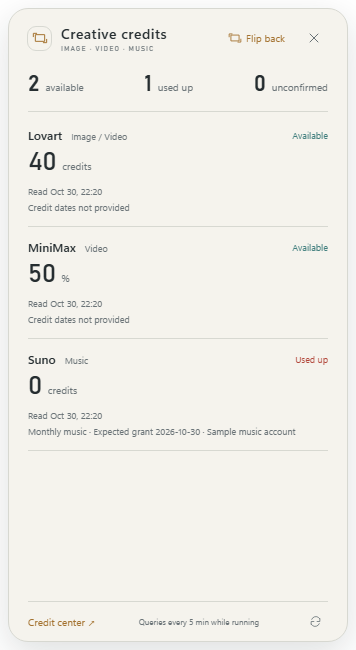
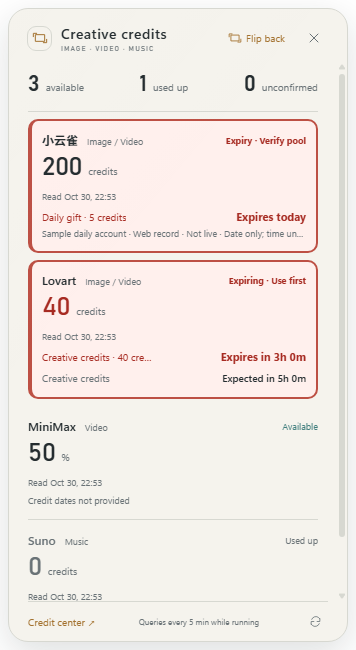
Prioritize expiring creative credits and show precise countdowns

diff --git a/src/ui/creative-panel.js b/src/ui/creative-panel.js
@@ -1,25 +1,37 @@
-(function(root,factory){const api=factory();if(typeof module==='object'&&module.exports)module.exports=api;else root.creativePanel=api;})(typeof window!=='undefined'?window:this,function(){
+(function(root,factory){const api=factory(typeof module==='object'&&module.exports?require('./creative-timing.js'):root.creativeTiming);if(typeof module==='object'&&module.exports)module.exports=api;else root.creativePanel=api;})(typeof window!=='undefined'?window:this,function(clock){
   'use strict';
-  function markup({state,t,esc,button,icon}){
+  function markup({state,t,esc,button,icon,now=Date.now()}){
     const data=state.creative||{rows:[],available:0,empty:0,unknown:0,enabled:true},language=state.settings.language;
     const format=value=>new Intl.NumberFormat(language,{maximumFractionDigits:3}).format(value);
     const when=value=>new Date(value).toLocaleString(language,{month:'short',day:'numeric',hour:'2-digit',minute:'2-digit',hour12:false});
     const kind=value=>({image:t('生图','Image'),video:t('生视频','Video'),music:t('生音乐','Music')}[value]);
-    function dateLine(row){
-      const d=row.dates?.find(d=>d.kind==='expiry'&&!d.elapsed)||row.dates?.find(d=>d.kind==='reset'&&!d.elapsed)||row.dates?.[0];
-      if(!d)return t('积分日期未提供','Credit dates not provided');
-      const label=d.estimated?t('预计发放','Expected grant'):d.kind==='expiry'?t('到期','Expires'):t('重置','Resets');
-      const basis=d.source==='user'?t(' · 本人填写',' · User entered'):d.source==='web'?t(' · 网页记录',' · Web record'):d.policy?t(' · 依规则预计',' · Policy forecast'):'';
-      const pool=language==='en'?d.labelEn:d.label;
-      return `${pool?pool+' · ':''}${label} ${d.dateOnly?d.onDate:when(d.at)}${basis}${d.account&&d.account!==row.account?' · '+d.account:''}${d.elapsed?t(' · 待核实',' · Verify'):''}`;
+    function countdown(d,time){
+      const expiry=d.kind==='expiry';
+      if(time.elapsed)return expiry?t('到期日已过，待核实','Expiry passed; verify'):t('预计恢复日已过，待核实','Expected renewal passed; verify');
+      if(time.dateOnly)return time.days===0?expiry?t('今天到期','Expires today'):t('今天预计恢复','Expected today'):expiry?t(`${time.days} 天后到期`,`Expires in ${time.days}d`):t(`${time.days} 天后预计恢复`,`Expected in ${time.days}d`);
+      const minutes=Math.max(1,Math.ceil(time.remaining/60000)),days=Math.floor(minutes/1440),hours=Math.floor(minutes/60)%24,m=minutes%60;
+      const duration=days?t(`${days}天${hours}小时`,`${days}d ${hours}h`):hours?t(`${hours}小时${m}分`,`${hours}h ${m}m`):t(`${m}分钟`,`${m}m`);
+      return expiry?t(`${duration}后到期`,`Expires in ${duration}`):t(`${duration}后预计恢复`,`Expected in ${duration}`);
+    }
+    function dateLines(row){
+      const selected=clock.selectDates(row.dates,now),dates=[row.priorityExpiry||selected.expiry,selected.reset].filter(Boolean);
+      if(!dates.length)return `<div class="creative-date-missing">${t('积分日期未提供','Credit dates not provided')}</div>`;
+      return dates.map(d=>{
+        const time=clock.timing(d,now),poolName=language==='en'?d.labelEn:d.label,pool=poolName+(d.kind==='expiry'&&d.amount>0?' · '+format(d.amount)+(d.unit==='percent'?'%':d.unit==='credits'?t('积分',' credits'):d.unit||''):'');
+        const basis=d.source==='web'?t('网页记录 · 非实时','Web record · Not live'):d.source==='user'?t('本人填写','User entered'):d.estimated?t('按月预计 · 未确认到账','Monthly forecast · Grant unconfirmed'):d.policy?t('依规则预计 · 待核实','Policy forecast · Verify'):d.stale?t('上次读数 · 待刷新','Last reading · Refresh needed'):'';
+        const account=d.account&&d.account!==row.account?d.account+' · ':'';
+        const precision=time.dateOnly?(d.timeText?t('时区未说明，按日期倒计时','Timezone unspecified; day countdown'):t('仅日期，时刻未提供','Date only; time unspecified')):'';
+        const note=[account+basis,precision].filter(Boolean).join(' · '),exact=d.dateOnly?d.onDate+(d.timeText?' '+d.timeText:''):when(d.at),title=[pool,exact,note].filter(Boolean).join(' · ');
+        return `<div class="creative-deadline ${d.kind} ${time.elapsed?'is-elapsed':''}" title="${esc(title)}"><div class="creative-deadline-top"><span class="creative-pool">${esc(pool||t('积分','Credits'))}</span><strong class="creative-countdown">${esc(countdown(d,time))}</strong></div>${note?`<div class="creative-date-note">${esc(note)}</div>`:''}</div>`;
+      }).join('');
     }
     const rows=data.rows.map(row=>{
-      const status=({available:t('有积分','Available'),empty:t('已用尽','Used up'),unknown:t('待确认','Unconfirmed')})[row.status];
+      const status=row.expiring?(row.status==='unknown'?t('临期记录 · 待确认','Expiry · Unconfirmed'):row.expiryNeedsCheck?t('临期 · 核实分项','Expiry · Verify pool'):t('临期 · 优先使用','Expiring · Use first')):({available:t('有积分','Available'),empty:t('已用尽','Used up'),unknown:t('待确认','Unconfirmed')})[row.status];
       const unit=row.unit==='percent'?'%':row.unit==='credits'?t('积分','credits'):row.unit==='requests'?t('次','requests'):row.unit;
       const reading=row.fetchedAt?(row.status==='unknown'?t('上次读取 ','Last read '):t('刷新于 ','Read '))+when(row.fetchedAt):row.querying?t('正在查询…','Querying…'):t('尚未读到余额','No balance reading');
       const provenance=row.source==='manual'?t(' · 本人记录',' · Manual'):row.source==='host'?t(' · 查询快照',' · Snapshot'):'';
       const account=row.accountCount>1?t(` · 显示 ${row.account||'未命名账号'}，共${row.accountCount}个账号`,` · Showing ${row.account||'unnamed account'} of ${row.accountCount} accounts`):'';
-      return `<article class="creative-row is-${row.status}" data-provider="${esc(row.id)}"><div class="creative-row-top"><div><strong>${esc(row.name)}</strong><span class="creative-kind">${esc(row.kinds.map(kind).join(' / '))}</span></div><span class="creative-status">${status}</span></div><div class="creative-amount">${row.amount==null?'—':format(row.amount)}<small>${row.amount==null?'':esc(unit)}</small></div><div class="creative-read-time">${esc(reading+provenance+account)}</div><div class="creative-date" title="${esc(dateLine(row))}">${esc(dateLine(row))}</div></article>`;
+      return `<article class="creative-row is-${row.status} ${row.expiring?'is-expiring':''} ${row.criticalExpiry?'is-critical':''} ${row.expiryIsPrimary?'expiry-is-primary':''}" data-provider="${esc(row.id)}"><div class="creative-row-top"><div><strong>${esc(row.name)}</strong><span class="creative-kind">${esc(row.kinds.map(kind).join(' / '))}</span></div><span class="creative-status">${status}</span></div><div class="creative-amount">${row.amount==null?'—':format(row.amount)}<small>${row.amount==null?'':esc(unit)}</small></div><div class="creative-read-time">${esc(reading+provenance+account)}</div>${dateLines(row)}</article>`;
     }).join('');
     return `<section class="panel creative-panel"><header class="header"><div class="brand-mark">${icon('flip')}</div><div class="brand">${t('创作积分','Creative credits')}<small>IMAGE · VIDEO · MUSIC</small></div><span class="spacer"></span><button class="flip-switch" data-action="show-codex">${icon('flip')}${t('翻回','Flip back')}</button>${button('close',t('关闭面板','Close panel'),'close')}</header><div class="content creative-content"><div class="creative-summary"><span><strong>${data.available}</strong>${t('有积分','available')}</span><span><strong>${data.empty}</strong>${t('已用尽','used up')}</span><span><strong>${data.unknown}</strong>${t('待确认','unconfirmed')}</span></div>${state.demo?`<p class="notice demo-label">${t('示例数据','Sample data')}</p>`:''}<div class="creative-list">${rows||`<div class="empty"><h1>${t('还没有创作额度读数','No creative quota readings yet')}</h1><p>${t('使用本机已有的生图、生视频或音乐连接；可到额度中心梳理和补充记录。','Use existing image, video or music connections. Discover tools or add readings in the credit center.')}</p></div>`}</div></div><footer class="footer"><button class="text-button" data-action="credit-center">${t('额度中心','Credit center')} ↗</button><span>${data.enabled?t('运行时每5分钟查询','Queries every 5 min while running'):t('自动查询已暂停','Automatic queries paused')}</span><button class="icon-button" data-action="creative-refresh" ${data.busy?'disabled':''} aria-label="${t('刷新创作积分','Refresh creative credits')}">${icon('refresh')}</button></footer></section>`;
   }

diff --git a/src/ui/credits.js b/src/ui/credits.js
@@ -44,13 +44,13 @@
     return `<section class="web-observations"><h3>${t('日期记录与预计发放','Recorded dates & expected grants')}</h3><p>${t('无需在刻度登录平台。余额沿用本机已有连接刷新；网页日期保留上次核对，每月发放按你设置的同日规则预计。预计不代表已经到账。','No provider sign-in inside Gauge. Balances refresh through existing local connections. Website dates retain the last observation; monthly grants follow your same-day forecast rule. A forecast is not a confirmed grant.')}</p>${tool.dateObservations.map(o=>`<div class="web-account"><strong>${esc(o.account)}</strong><small>${t('核对于','Checked')} ${esc(date(o.observedAt))} · ${t('非实时','Not live')}</small>${o.items.map(i=>`<div class="web-fact"><span>${esc(language==='en'?i.labelEn:i.label)}${i.amount!=null?` · ${number(i.amount)} ${esc(unit(i))}`:''}</span><strong>${i.kind==='never'?t('永久有效','Does not expire'):i.kind==='unknown'?t('日期未展示','Date not shown'):esc(i.onDate)}${i.ruleDerived?` · ${t('依官方规则','Official rule')}`:''}${i.timeText?` ${esc(i.timeText)} · ${t('时区未说明','Timezone unspecified')}`:!['never','unknown'].includes(i.kind)?` · ${t('仅有日期','Date only')}`:''}</strong>${['lovart','xyq','jimeng'].includes(tool.id)&&['monthly','subscription'].includes(i.id)&&i.kind!=='never'?`<button class="mini-link" data-action="monthly-rule" data-observation="${esc(o.id)}" data-item="${esc(i.id)}">${i.monthlyRule?t('预计每月 '+i.monthlyRule.day+' 日 · 修改','Expected on day '+i.monthlyRule.day+' · Edit'):t('设置月度发放日','Set monthly grant day')}</button>`:''}</div>`).join('')}<button class="mini-link" data-action="web-date-source" data-note="${esc(o.id)}">${t('打开网页核实','Open website to verify')}</button></div>`).join('')}</section>`;
   }
   function deadlineLine(d,row){
-    if(['web','user','user_schedule'].includes(d.source))return `<div class="deadline ${d.kind} ${d.near?'near':''} web-deadline"><span class="deadline-kind">${d.estimated?t('预计','Expected'):d.source==='user'?t('本人记录','User record'):t('网页记录','Web reading')} · ${esc(language==='en'?d.labelEn:d.label)}${d.kind==='expiry'?t('到期',' expires'):d.estimated?'':t('恢复',' renews')}</span><strong>${esc(d.onDate)}${d.timeText?` ${esc(d.timeText)}`:''}${d.elapsed?` · ${t('日期已到，待核实','Date reached; verify')}`:''}</strong><small>${esc(d.account)} · ${d.amount!=null?`${number(d.amount)} ${esc(d.unit==='credits'?t('积分','credits'):d.unit)} · `:''}${d.estimated?t('按每月同日规则预计，未确认到账','Monthly same-day forecast; grant unconfirmed'):d.ruleDerived?t('上次记录 + 规则','Last reading + rule'):t('核对记录，非实时','Observed; not live')}${d.timeText?t(' · 时区未说明',' · Timezone unspecified'):t(' · 仅有日期',' · Date only')}</small></div>`;
+    if(['web','user_schedule'].includes(d.source)||d.source==='user'&&d.dateOnly)return `<div class="deadline ${d.kind} ${d.near?'near':''} web-deadline"><span class="deadline-kind">${d.estimated?t('预计','Expected'):d.source==='user'?t('本人记录','User record'):t('网页记录','Web reading')} · ${esc(language==='en'?d.labelEn:d.label)}${d.kind==='expiry'?t('到期',' expires'):d.estimated?'':t('恢复',' renews')}</span><strong>${esc(d.onDate)}${d.timeText?` ${esc(d.timeText)}`:''}${d.elapsed?` · ${t('日期已到，待核实','Date reached; verify')}`:''}</strong><small>${esc(d.account)} · ${d.amount!=null?`${number(d.amount)} ${esc(d.unit==='credits'?t('积分','credits'):d.unit)} · `:''}${d.estimated?t('按每月同日规则预计，未确认到账','Monthly same-day forecast; grant unconfirmed'):d.ruleDerived?t('上次记录 + 规则','Last reading + rule'):t('核对记录，非实时','Observed; not live')}${d.timeText?t(' · 时区未说明',' · Timezone unspecified'):t(' · 仅有日期',' · Date only')}</small></div>`;
     const hours=Math.ceil((d.at-Date.now())/3600000),days=Math.ceil(hours/24);
     const remaining=d.dateOnly?d.onDate:hours<=24?t(`${hours} 小时内`, `Within ${hours}h`):t(`${days} 天后`, `In ${days} days`);
     const pool=language==='en'?d.labelEn:d.label,label=d.kind==='expiry'?d.card?t('重置卡到期','Reset credit expires'):t(`${pool||'积分'}到期`,`${pool||'Credits'} expire`):t('重置','Resets');
     const otherAccount=row.accountCount>1?`${d.account||t('未命名账号','Unnamed account')}${d.recordId!==row.record?.id?t('（另一个账号）',' (other account)'):''} · `:'';
     const context=otherAccount+(d.kind==='reset'&&!d.dateOnly?pool||'':'');
-    const exact=d.dateOnly?t('仅有日期','Date only'):date(d.at),note=[context,d.dateOnly?t('仅有日期','Date only'):'',d.stale?t('上次记录','Last reading'):'',d.policy&&!d.dateOnly?t('预计','Expected'):''].filter(Boolean).join(' · ');
+    const exact=d.dateOnly?t('仅有日期','Date only'):date(d.at),note=[context,d.dateOnly?t('仅有日期','Date only'):'',d.stale?t('上次记录','Last reading'):'',d.source==='user'?t('本人填写','User entered'):'',d.policy&&!d.dateOnly?t('预计','Expected'):''].filter(Boolean).join(' · ');
     return `<div class="deadline ${d.kind} ${d.near?'near':''}" title="${esc(otherAccount+(pool||'')+' · '+exact)}"><span class="deadline-kind">${esc(label)}</span><strong>${esc(remaining)}</strong>${note?`<small>${esc(note)}</small>`:''}</div>`;
   }
   function overviewRow(row){

diff --git a/src/ui/creative-panel.css b/src/ui/creative-panel.css
@@ -1,2 +1,6 @@
 #app{width:100%;height:100%}
 .flip-stage{position:relative;width:100%;height:100%;perspective:1200px}.flip-deck{position:relative;width:100%;height:100%;transform-style:preserve-3d;transition:transform .42s cubic-bezier(.2,.75,.25,1)}.flip-deck.is-flipped{transform:rotateY(180deg)}.flip-face{position:absolute;inset:0;backface-visibility:hidden;-webkit-backface-visibility:hidden}.creative-face{transform:rotateY(180deg)}.flip-switch{display:inline-flex;align-items:center;gap:4px;color:var(--accent);font-size:10px;white-space:nowrap;padding:7px 5px;border-radius:7px}.flip-switch:hover{background:var(--surface)}.flip-switch .icon{width:14px;height:14px}.creative-panel .brand{font-size:14px;letter-spacing:.5px}.creative-panel .brand small{font-size:7px;letter-spacing:1.1px}.creative-panel .brand-mark{width:25px;height:25px}.creative-content{padding-bottom:10px}.creative-summary{display:flex;justify-content:space-between;gap:10px;margin:10px 0 3px;padding-bottom:13px;border-bottom:1px solid var(--line);font-size:10px;color:var(--muted)}.creative-summary span{display:flex;align-items:baseline;gap:6px}.creative-summary strong{font-family:var(--number);font-size:22px;font-weight:500;color:var(--ink)}.creative-row{padding:12px 0 11px;border-bottom:1px solid var(--line)}.creative-row-top{display:flex;align-items:center;justify-content:space-between;gap:9px}.creative-row-top>div{display:flex;align-items:baseline;gap:9px;min-width:0}.creative-row-top strong{font-size:12px;font-weight:600;overflow-wrap:anywhere}.creative-kind{font-size:9px;color:var(--muted);white-space:nowrap}.creative-status{font-size:9px;white-space:nowrap;color:var(--muted)}.creative-row.is-available .creative-status{color:var(--cool)}.creative-row.is-empty .creative-status{color:var(--danger)}.creative-amount{font-family:var(--number);font-size:26px;line-height:33px;letter-spacing:-.5px;margin-top:3px}.creative-amount small{font-family:var(--font);font-size:10px;color:var(--muted);margin-left:6px;letter-spacing:0}.creative-row.is-unknown .creative-amount{color:var(--muted)}.creative-read-time,.creative-date{font-size:9px;line-height:16px;color:var(--muted);overflow-wrap:anywhere}.creative-date{white-space:nowrap;overflow:hidden;text-overflow:ellipsis}.creative-panel .footer{gap:6px;font-size:8px}.creative-panel .empty{min-height:220px}.creative-panel .footer .text-button{font-size:10px}@media(prefers-reduced-motion:reduce){.flip-deck{transition:none}}
+
+.creative-deadline{margin-top:4px;min-width:0}.creative-deadline-top{display:flex;align-items:baseline;justify-content:space-between;gap:8px;min-width:0;font-size:10px;line-height:17px}.creative-pool{min-width:0;overflow:hidden;text-overflow:ellipsis;white-space:nowrap;color:var(--muted);max-width:42%}.creative-countdown{font-weight:550;white-space:nowrap}.creative-date-note,.creative-date-missing{font-size:9px;color:var(--muted);line-height:15px;overflow:hidden;text-overflow:ellipsis;white-space:nowrap}.creative-date-missing{margin-top:3px}.creative-row.is-expiring{border:1px solid var(--expiry-border);border-left-width:3px;border-radius:10px;background:var(--expiry-bg);padding:10px;margin:7px 0}.creative-row.is-expiring .creative-status,.creative-row.is-expiring .expiry .creative-countdown{color:var(--expiry-ink);font-weight:650}.creative-row.is-expiring.is-critical{border-width:2px;border-left-width:4px}.creative-row.is-expiring .expiry .creative-countdown{font-size:11px}.creative-row.is-empty .creative-row-top strong,.creative-row.is-empty .creative-kind,.creative-row.is-empty .creative-status,.creative-row.is-empty .creative-amount,.creative-row.is-empty .creative-amount small,.creative-row.is-empty .creative-countdown{color:var(--muted)}.creative-deadline.is-elapsed .creative-countdown{color:var(--muted)}
+
+.creative-row.is-expiring .expiry .creative-pool,.creative-row.is-expiring.expiry-is-primary .creative-amount{color:var(--expiry-ink)}

diff --git a/src/ui/credit-overview.js b/src/ui/credit-overview.js
@@ -30,13 +30,13 @@
   function deadlines(records,rules,now){
     const out=[];
     for(const r of records)for(const original of r.pools||[]){
-      const p=effective(r,original,rules);
-      if(finite(p.amount)&&p.amount>0&&p.expiresAt>now)out.push({kind:'expiry',at:p.expiresAt,label:p.label,labelEn:p.labelEn,recordId:r.id,poolId:p.id,account:r.account,card:card(p),stale:!fresh(r,now),near:p.expiresAt-now<=7*DAY,dateOnly:false});
+      const p=effective(r,original,rules),rule=rules?.[r.id+'/'+p.id]||r.rules?.[r.id+'/'+p.id];
+      if(finite(p.amount)&&p.amount>0&&p.expiresAt>now)out.push({kind:'expiry',at:p.expiresAt,label:p.label,labelEn:p.labelEn,amount:p.amount,unit:p.unit,recordId:r.id,poolId:p.id,account:r.account,card:card(p),stale:!fresh(r,now),near:p.expiresAt-now<=7*DAY,dateOnly:false,source:rule?.expiresAt?'user':'upstream'});
       if(card(p)||p.entitlement==='not_in_plan'||toolsPool(p))continue;
-      if(p.resetsAt>now)out.push({kind:'reset',at:p.resetsAt,label:p.resetLabel||p.label,labelEn:p.resetLabelEn||p.labelEn,recordId:r.id,poolId:p.id,account:r.account,stale:!fresh(r,now),near:p.resetsAt-now<=2*DAY,dateOnly:false,policy:p.resetSource==='policy'});
+      if(p.resetsAt>now)out.push({kind:'reset',at:p.resetsAt,label:p.resetLabel||p.label,labelEn:p.resetLabelEn||p.labelEn,recordId:r.id,poolId:p.id,account:r.account,stale:!fresh(r,now),near:p.resetsAt-now<=2*DAY,dateOnly:false,policy:!rule?.resetsAt&&p.resetSource==='policy',source:rule?.resetsAt?'user':p.resetSource==='policy'?'policy':'upstream'});
       else if(!p.resetsAt&&/^\d{4}-\d{2}-\d{2}$/.test(p.resetDate||'')){
         const today=new Date(now),local=Date.UTC(today.getFullYear(),today.getMonth(),today.getDate()),anchor=Date.parse(p.resetDate+'T12:00:00Z');
-        if(anchor>=local)out.push({kind:'reset',at:anchor,onDate:p.resetDate,dateOnly:true,label:p.label,labelEn:p.labelEn,recordId:r.id,poolId:p.id,account:r.account,stale:!fresh(r,now),near:anchor-local<=2.5*DAY,policy:true});
+        if(anchor>=local)out.push({kind:'reset',at:anchor,onDate:p.resetDate,dateOnly:true,label:p.label,labelEn:p.labelEn,recordId:r.id,poolId:p.id,account:r.account,stale:!fresh(r,now),near:anchor-local<=2.5*DAY,policy:p.resetSource==='policy',source:p.resetSource==='policy'?'policy':'upstream'});
       }
     }
     return out.sort((a,b)=>a.at-b.at);

diff --git a/src/ui/creative-timing.js b/src/ui/creative-timing.js
@@ -1,0 +1,32 @@
+(function(root,factory){const api=factory();if(typeof module==='object'&&module.exports)module.exports=api;else root.creativeTiming=api;})(typeof window!=='undefined'?window:this,function(){
+  'use strict';
+  const DAY=86400000;
+  function timing(date,now=Date.now()){
+    if(date?.dateOnly){
+      if(!/^\d{4}-\d{2}-\d{2}$/.test(date.onDate||''))return null;
+      const[y,m,d]=date.onDate.split('-').map(Number),day=Date.UTC(y,m-1,d),clock=new Date(now);
+      if(new Date(day).toISOString().slice(0,10)!==date.onDate)return null;
+      const days=Math.round((day-Date.UTC(clock.getFullYear(),clock.getMonth(),clock.getDate()))/DAY);
+      return{dateOnly:true,days,elapsed:days<0,due:days===0,near:days>=0&&days<=7,critical:days===0,order:new Date(y,m-1,d).getTime()};
+    }
+    if(!Number.isFinite(date?.at)||date.at<=0||!Number.isFinite(new Date(date.at).getTime()))return null;
+    const remaining=date.at-now;
+    return{dateOnly:false,remaining,elapsed:remaining<=0,due:remaining<=0,near:remaining>0&&remaining<=7*DAY,critical:remaining>0&&remaining<=DAY,order:date.at};
+  }
+  function selectDates(dates=[],now=Date.now()){
+    const select=kind=>{
+      const entries=dates.filter(d=>d.kind===kind&&(kind!=='expiry'||d.amount==null||d.amount>0)).map(date=>({date,time:timing(date,now)})).filter(x=>x.time);
+      // Retain a recent missed forecast as a verification prompt, never a grant.
+      const overdue=kind==='reset'?entries.filter(x=>(x.date.estimated||x.date.policy)&&x.time.elapsed&&(x.time.dateOnly?x.time.days>=-7:x.time.remaining>=-7*DAY)):[];
+      if(overdue.length)return overdue.sort((a,b)=>b.time.order-a.time.order)[0].date;
+      const upcoming=entries.filter(x=>!x.time.elapsed).sort((a,b)=>a.time.order-b.time.order);
+      return(upcoming[0]||entries.sort((a,b)=>b.time.order-a.time.order)[0])?.date||null;
+    };
+    return{expiry:select('expiry'),reset:select('reset')};
+  }
+  function priorityExpiry(dates=[],status,now=Date.now()){
+    if(status==='empty')return null;
+    return dates.filter(d=>d.kind==='expiry'&&(d.amount==null||d.amount>0)&&timing(d,now)?.near).sort((a,b)=>timing(a,now).order-timing(b,now).order)[0]||null;
+  }
+  return{timing,selectDates,priorityExpiry};
+});

diff --git a/src/ui/index.html b/src/ui/index.html
@@ -8,5 +8,5 @@
   <link rel="stylesheet" href="style.css">
   <link rel="stylesheet" href="creative-panel.css">
 </head>
-<body><main id="app"></main><script src="reset-model.js"></script><script src="creative-panel.js"></script><script src="app.js"></script></body>
+<body><main id="app"></main><script src="reset-model.js"></script><script src="creative-timing.js"></script><script src="creative-panel.js"></script><script src="app.js"></script></body>
 </html>

diff --git a/docs/GETTING_STARTED.md b/docs/GETTING_STARTED.md
@@ -2,11 +2,11 @@
 
 [简体中文](GETTING_STARTED.zh-CN.md) · [Home](../README.md) · [Download](https://github.com/Akenaiai/codex-gauge/releases/latest)
 
-For Windows 0.3.6. Gauge keeps the original Codex badge and adds an AI credit center. **No Gauge account or additional provider sign-in inside Gauge is required.** Queries use connections on your own computer. If a tool is not signed in, sign in through its original client or CLI, or skip it for now.
+For Windows 0.3.7. Gauge keeps the original Codex badge and adds an AI credit center. **No Gauge account or additional provider sign-in inside Gauge is required.** Queries use connections on your own computer. If a tool is not signed in, sign in through its original client or CLI, or skip it for now.
 
 ## 1. Install and open
 
-1. On the release page, expand **Assets** and download `Codex.Gauge.Setup.0.3.6.exe`. For an installation-free launch, download `Codex.Gauge-0.3.6-win.zip`, extract the entire archive and run `Codex Gauge.exe`. Later releases may have different version numbers. GitHub's **Source code** ZIP requires a development environment.
+1. On the release page, expand **Assets** and download `Codex.Gauge.Setup.0.3.7.exe`. For an installation-free launch, download `Codex.Gauge-0.3.7-win.zip`, extract the entire archive and run `Codex Gauge.exe`. Later releases may have different version numbers. GitHub's **Source code** ZIP requires a development environment.
 2. Windows 10/11 x64 is required. The distribution includes its desktop runtime; Node.js is not needed. Optional Agent Relay queries require that separate tool and Python.
 3. The app is currently unsigned. In PowerShell, run `Get-FileHash -Algorithm SHA256 -LiteralPath 'full path to the download'` and compare it with `SHA256SUMS.txt` from the same release. Matching hashes verify file consistency, not a code signature. Do not disable Windows protections.
 4. Launch Gauge. Open **Credit center · All AI tools** from its notification-area icon, which may be under hidden icons. The Codex gauge panel also has a credit-center button.
@@ -31,6 +31,8 @@ Open **Details → Dates & source** for all pools and timestamps, or **Calendar*
 ### Preview only creative credits
 
 Hover over the small Codex badge to expand it, then click **Creative credits**. The card rotates to image, video and music balances with each source's read time and available dates. **Flip back** restores the original coding gauge. The selected face survives reopening; reduced-motion settings disable rotation. Used up and unread/stale stay distinct. Coding windows, search quotas, reset cards and download credits are excluded. The back's refresh queries creative sources; the credit center remains available for full details and date entry.
+
+Expiries within seven days move first in red; within 24 hours, or due today with date-only precision, the border is stronger. Used-up tools are gray at the end. Expiry and expected-renewal countdowns appear together. A date-only record uses days/today, with no invented clock time; hover for the full date and source. Reached forecasts require verification. A bonus expiry names its own amount; it does not mean the total balance expires. Stale/unmatched dates stay unconfirmed.
 
 ## 3. Which local connections are read
 

diff --git a/docs/GETTING_STARTED.zh-CN.md b/docs/GETTING_STARTED.zh-CN.md
@@ -2,11 +2,11 @@
 
 [English](GETTING_STARTED.md) · [返回首页](../README.zh-CN.md) · [下载安装包](https://github.com/Akenaiai/codex-gauge/releases/latest)
 
-适用于 Windows 0.3.6。刻度保留原 Codex 小仪表，并提供统一的 AI 额度中心。**不需要注册刻度账号，也不需要在刻度里额外登录各个平台。** 查询沿用你自己电脑上的已有连接。尚未登录的工具，需要在它原来的客户端或 CLI 中完成登录；也可以先跳过。
+适用于 Windows 0.3.7。刻度保留原 Codex 小仪表，并提供统一的 AI 额度中心。**不需要注册刻度账号，也不需要在刻度里额外登录各个平台。** 查询沿用你自己电脑上的已有连接。尚未登录的工具，需要在它原来的客户端或 CLI 中完成登录；也可以先跳过。
 
 ## 1. 安装并打开
 
-1. 打开上方发布页，在 **Assets** 下载 `Codex.Gauge.Setup.0.3.6.exe`。需要免安装运行时选 `Codex.Gauge-0.3.6-win.zip`，完整解压后运行其中的 `Codex Gauge.exe`。后续版本以发布页文件名为准。GitHub 的 **Source code** ZIP 是源码，需要开发环境才能运行。
+1. 打开上方发布页，在 **Assets** 下载 `Codex.Gauge.Setup.0.3.7.exe`。需要免安装运行时选 `Codex.Gauge-0.3.7-win.zip`，完整解压后运行其中的 `Codex Gauge.exe`。后续版本以发布页文件名为准。GitHub 的 **Source code** ZIP 是源码，需要开发环境才能运行。
 2. 系统要求是 Windows 10/11 x64。安装包已包含桌面运行环境，无需另装 Node.js；可选的 Agent Relay 查询需要另外安装该工具及 Python。
 3. 当前安装包没有 Windows 代码签名。可将下载文件右键复制路径，在 PowerShell 运行 `Get-FileHash -Algorithm SHA256 -LiteralPath '下载文件的完整路径'`，与同一发布页的 `SHA256SUMS.txt` 比较。这只能验证文件是否一致，不等于代码签名；不要关闭系统保护。
 4. 运行刻度。从任务栏通知区域的刻度图标打开 **额度中心 · 全部 AI 工具**；图标可能收在隐藏图标菜单中。已有 Codex 小面板也有进入额度中心的按钮。
@@ -31,6 +31,8 @@
 ### 只预览创作积分
 
 悬停展开小仪表，点 **创作积分** 即可翻到生图、生视频、生音乐余量，每个平台保留自己的读取时间和已知日期。点 **翻回** 返回原编程仪表。翻面选择会保留，减少动态效果时不播放旋转。已用尽与未读取 / 过旧明确区分，编程周期、资料查询、重置卡、下载额度不会混入。背面的刷新只查创作来源，完整分项和日期填写继续在额度中心。
+
+7天内到期标红置顶，24小时内或只有日期且今天到期时加强边框；用尽置灰排后。到期与预计恢复可同时倒计时，只有日期就按天 / 今天显示，不编造时刻；悬停可看完整日期与来源。预计时间到了仍需核实到账。部分赠金到期会注明分项数量，不代表总额都要到期；旧读数或未匹配账号的日期继续待确认。
 
 ## 3. 会读取哪些本机连接
 

diff --git a/README.md b/README.md
@@ -8,7 +8,7 @@ A desktop AI credit center with a small, precision-styled Codex usage gauge abov
 
 **No Gauge account or additional provider login inside Gauge.** It uses the current user's own local CLI/MCP connections or optional API credentials. A new installation includes no developer account, balances or date rules. Discovering a plugin is not proof that its balance can be queried. See the [distribution privacy verification](docs/PRIVACY_VERIFICATION.md).
 
-**Current version: 0.3.6.** Flip the expanded gauge to **Creative credits** for image, video and music balances, read times and pool-specific dates. Coding quotas stay on the original face. Suno reuses your existing MCP connection and separates generation from downloads. [Release notes](docs/releases/0.3.6.md) · [Technical credit-center guide](docs/CREDIT_CENTER.md).
+**Current version: 0.3.7.** The creative flip face puts expiring credits first in red, shows expiry and expected-renewal countdowns together, and moves gray used-up tools to the end. Pool, account and date precision remain explicit. Original Codex face and Suno queries are preserved. [Release notes](docs/releases/0.3.7.md) · [Technical guide](docs/CREDIT_CENTER.md).
 
 ![Quota overview with synthetic sample data](assets/credit-overview-en.png)
 
@@ -33,7 +33,7 @@ A desktop AI credit center with a small, precision-styled Codex usage gauge abov
 
 Download the setup executable or portable ZIP from [Releases](https://github.com/Akenaiai/codex-gauge/releases). The app is **not code-signed**. Verify the release source and SHA-256 checksum; do not disable Windows protections.
 
-Choose `Codex.Gauge.Setup.0.3.6.exe` for installation, or fully extract `Codex.Gauge-0.3.6-win.zip` and run `Codex Gauge.exe`. These distributions include the desktop runtime; Node.js is not required. GitHub's **Source code** archive requires the development setup below. The [first-use tutorial](docs/GETTING_STARTED.md) covers checksum comparison, the tray entry, connections and missing-data troubleshooting.
+Choose `Codex.Gauge.Setup.0.3.7.exe` for installation, or fully extract `Codex.Gauge-0.3.7-win.zip` and run `Codex Gauge.exe`. These distributions include the desktop runtime; Node.js is not required. GitHub's **Source code** archive requires the development setup below. The [first-use tutorial](docs/GETTING_STARTED.md) covers checksum comparison, the tray entry, connections and missing-data troubleshooting.
 
 You need Windows 10/11 x64. The original Codex badge additionally needs the Codex desktop app and an installed, signed-in [official Codex CLI](https://github.com/openai/codex). The CLI supplies authentication and current Codex quota data. Keep Codex open for the attached gauge. Other supported providers can use the credit center independently through their own connections; if the profile cannot be located, the tray still opens the panel.
 

diff --git a/docs/CREDIT_CENTER.md b/docs/CREDIT_CENTER.md
@@ -2,6 +2,14 @@
 
 For installation and first use, start with the [English tutorial](GETTING_STARTED.md). This page describes adapters, private imports and integration details. 首次安装和使用请先看[中文教程](GETTING_STARTED.zh-CN.md)，本页为适配、私人导入及集成说明。
 
+## 0.3.7: Expiry priority / 临期优先
+
+The creative preview uses a seven-day expiry threshold, independent of renewal proximity. Eligible positive/unknown expiry pools sort first by deadline; confirmed empty tools remain gray at the end. Stale or independent observations retain verification wording, not a current-availability claim. Primary amount highlighting requires both record ID and pool ID to match; a bonus expiry shows that pool and amount separately.
+
+The shared timing model preserves precision: exact epoch timestamps use minute-level countdowns, while `dateOnly` uses local calendar-day differences and never the internal ordering anchor as a provider instant. Expiry and renewal are selected independently, so both can be displayed even when many earlier expiry entries exist. Recent overdue forecasts remain bounded verification prompts. Absolute dates/source/account remain available in tooltips. Manual overrides annotate each date kind separately; a user expiry cannot relabel the upstream renewal or discard the exact time in the full center. Countdown repainting uses the existing UI clock and does not introduce upstream polling.
+
+中文：背面按7天内到期置顶并标红，恢复临近不当作到期，用尽置灰排后。到期和预计恢复分别选择、同时倒计时；准确时间按分钟，只有日期按日历天，不使用内部排序锚点编造时刻。过日预计仍需核实。主金额标红须同时匹配所示记录和积分池，部分赠金不代表全额到期；手填到期 / 恢复各自标注来源，原精确日期不丢失。倒计时不新增上游查询。
+
 ## 0.3.6: Creative flip face and Suno / 创作翻面与 Suno
 
 The expanded badge panel flips between the original Codex view and **Creative credits**. The latter filters to known image/video/music providers and explicit media-only entitlements. Coding windows, search quotas, cash balances, reset cards and downloads are excluded. Each row preserves its own reading timestamp and uncertainty; neither separate accounts nor generation/download pools are summed. Dates must belong to retained media pools; independent dates on a mixed coding/video provider require an explicit video label. Sub-pool dates name that pool. The 52-pixel badge behavior is preserved. `panelFace` is a validated local preference, and the hidden face is inert for keyboard/accessibility navigation. Reduced motion disables rotation.

diff --git a/README.zh-CN.md b/README.zh-CN.md
@@ -8,7 +8,7 @@
 
 **不用注册刻度账号，不用在刻度里额外登录平台。** 查询沿用当前用户自己电脑上的 CLI / MCP 连接或可选 API 凭据。新安装不带开发者账号、余额和日期规则；发现插件不代表能查余额。详见[分发隐私核对记录](docs/PRIVACY_VERIFICATION.md)。
 
-**当前版本 0.3.6：** 原小仪表展开后可翻到 **创作积分** 背面，快速查看生图、生视频、生音乐余量、读取时间和分项日期。编程额度保留在原面。Suno沿用已有MCP自动查询，生成积分与下载额度分开。[版本说明](docs/releases/0.3.6.md) · [额度中心进阶说明](docs/CREDIT_CENTER.md)。
+**当前版本 0.3.7：** 创作背面把临期积分标红置顶，同时显示到期与预计恢复倒计时，已用尽置灰排后。分项、账号和日期精度继续保留，原Codex仪表与Suno查询保持。[版本说明](docs/releases/0.3.7.md) · [进阶说明](docs/CREDIT_CENTER.md)。
 
 ![额度总览，图中均为合成示例数据](assets/credit-overview-zh.png)
 
@@ -35,7 +35,7 @@
 
 从[发布页](https://github.com/Akenaiai/codex-gauge/releases)下载安装程序或绿色 ZIP。当前程序**没有 Windows 代码签名**，请核对来源和 SHA-256，不关闭系统保护。
 
-安装版选 `Codex.Gauge.Setup.0.3.6.exe`；免安装版选 `Codex.Gauge-0.3.6-win.zip`，完整解压后运行 `Codex Gauge.exe`。两者已包含桌面运行环境，不需要另装 Node.js。GitHub 的 **Source code** 压缩包是源码，需要下方的开发环境。[首次使用教程](docs/GETTING_STARTED.zh-CN.md)包含校验方法、托盘入口、连接说明和缺失数据排查。
+安装版选 `Codex.Gauge.Setup.0.3.7.exe`；免安装版选 `Codex.Gauge-0.3.7-win.zip`，完整解压后运行 `Codex Gauge.exe`。两者已包含桌面运行环境，不需要另装 Node.js。GitHub 的 **Source code** 压缩包是源码，需要下方的开发环境。[首次使用教程](docs/GETTING_STARTED.zh-CN.md)包含校验方法、托盘入口、连接说明和缺失数据排查。
 
 需要 Windows 10/11 x64。原 Codex 小仪表还需要 Codex 桌面客户端，以及已经安装并登录的[官方 Codex CLI](https://github.com/openai/codex)，由 CLI 提供本机登录和 Codex 额度数据。打开 Codex 后，仪表会定位到个人头像上方；其他已支持平台可通过自己的连接独立使用额度中心，暂时无法定位头像时仍可从托盘打开。
 

diff --git a/docs/releases/0.3.7.md b/docs/releases/0.3.7.md
@@ -1,0 +1,19 @@
+# 0.3.7: Expiry priority and creative countdowns
+
+The creative face now places upcoming expiries within seven days first, ordered by deadline and highlighted in red. Known exact expiries within 24 hours, and date-only expiries due today, receive a stronger border. Confirmed used-up tools are gray and move to the end. An approaching renewal alone never receives expiry styling.
+
+Expiry and expected-renewal countdowns can appear together, with pool names, expiring amounts and source/account context. Exact timestamps count down in days/hours/minutes. Date-only observations use calendar days or “today”; unspecified website timezones never acquire an invented hourly countdown. Absolute dates remain in the tooltip. A reached renewal stays a verification prompt, not an arrived-credit claim.
+
+If only a bonus pool expires, the total is kept separate. The main amount turns red only when the expiry belongs to that same selected record and pool. Stale or independently recorded dates remain explicitly unconfirmed. Existing manual dates preserve their own source separately for expiry and renewal, including the full credit center.
+
+No additional login, upstream query cadence, spending or notification behavior is introduced. Original Codex face, Suno connection and local preferences are preserved. Windows remains unsigned; Mac and natural future notification delivery retain their existing field-test limits.
+
+## 中文
+
+创作背面将 **7天内到期** 的积分置顶，按最近到期排序并标红；准确时间在24小时内、或只有日期且今天到期时，加强边框。已确认用尽的工具置灰排到最后，单纯快恢复不会标成到期。
+
+到期与预计恢复可同时显示倒计时，保留积分池名、临期数量、来源及账号。准确时间按天 / 小时 / 分钟倒计时，只有日期就显示几天后 / 今天，不给未知时区补造小时数；悬停可看绝对日期。预计恢复日已过只提示核实，不宣称到账。
+
+部分赠金到期不会把总额都标红，只有到期属于所示同一记录、同一积分池时才红主金额。旧读数与独立日期仍注明待确认，手填到期和恢复的来源分开，不互相污染。原Codex仪表、Suno连接、本机偏好保留，不增加登录、查询频率、消费或通知行为。
+
+安装包仍未签名，Mac与自然未来通知送达保留原待验范围。
